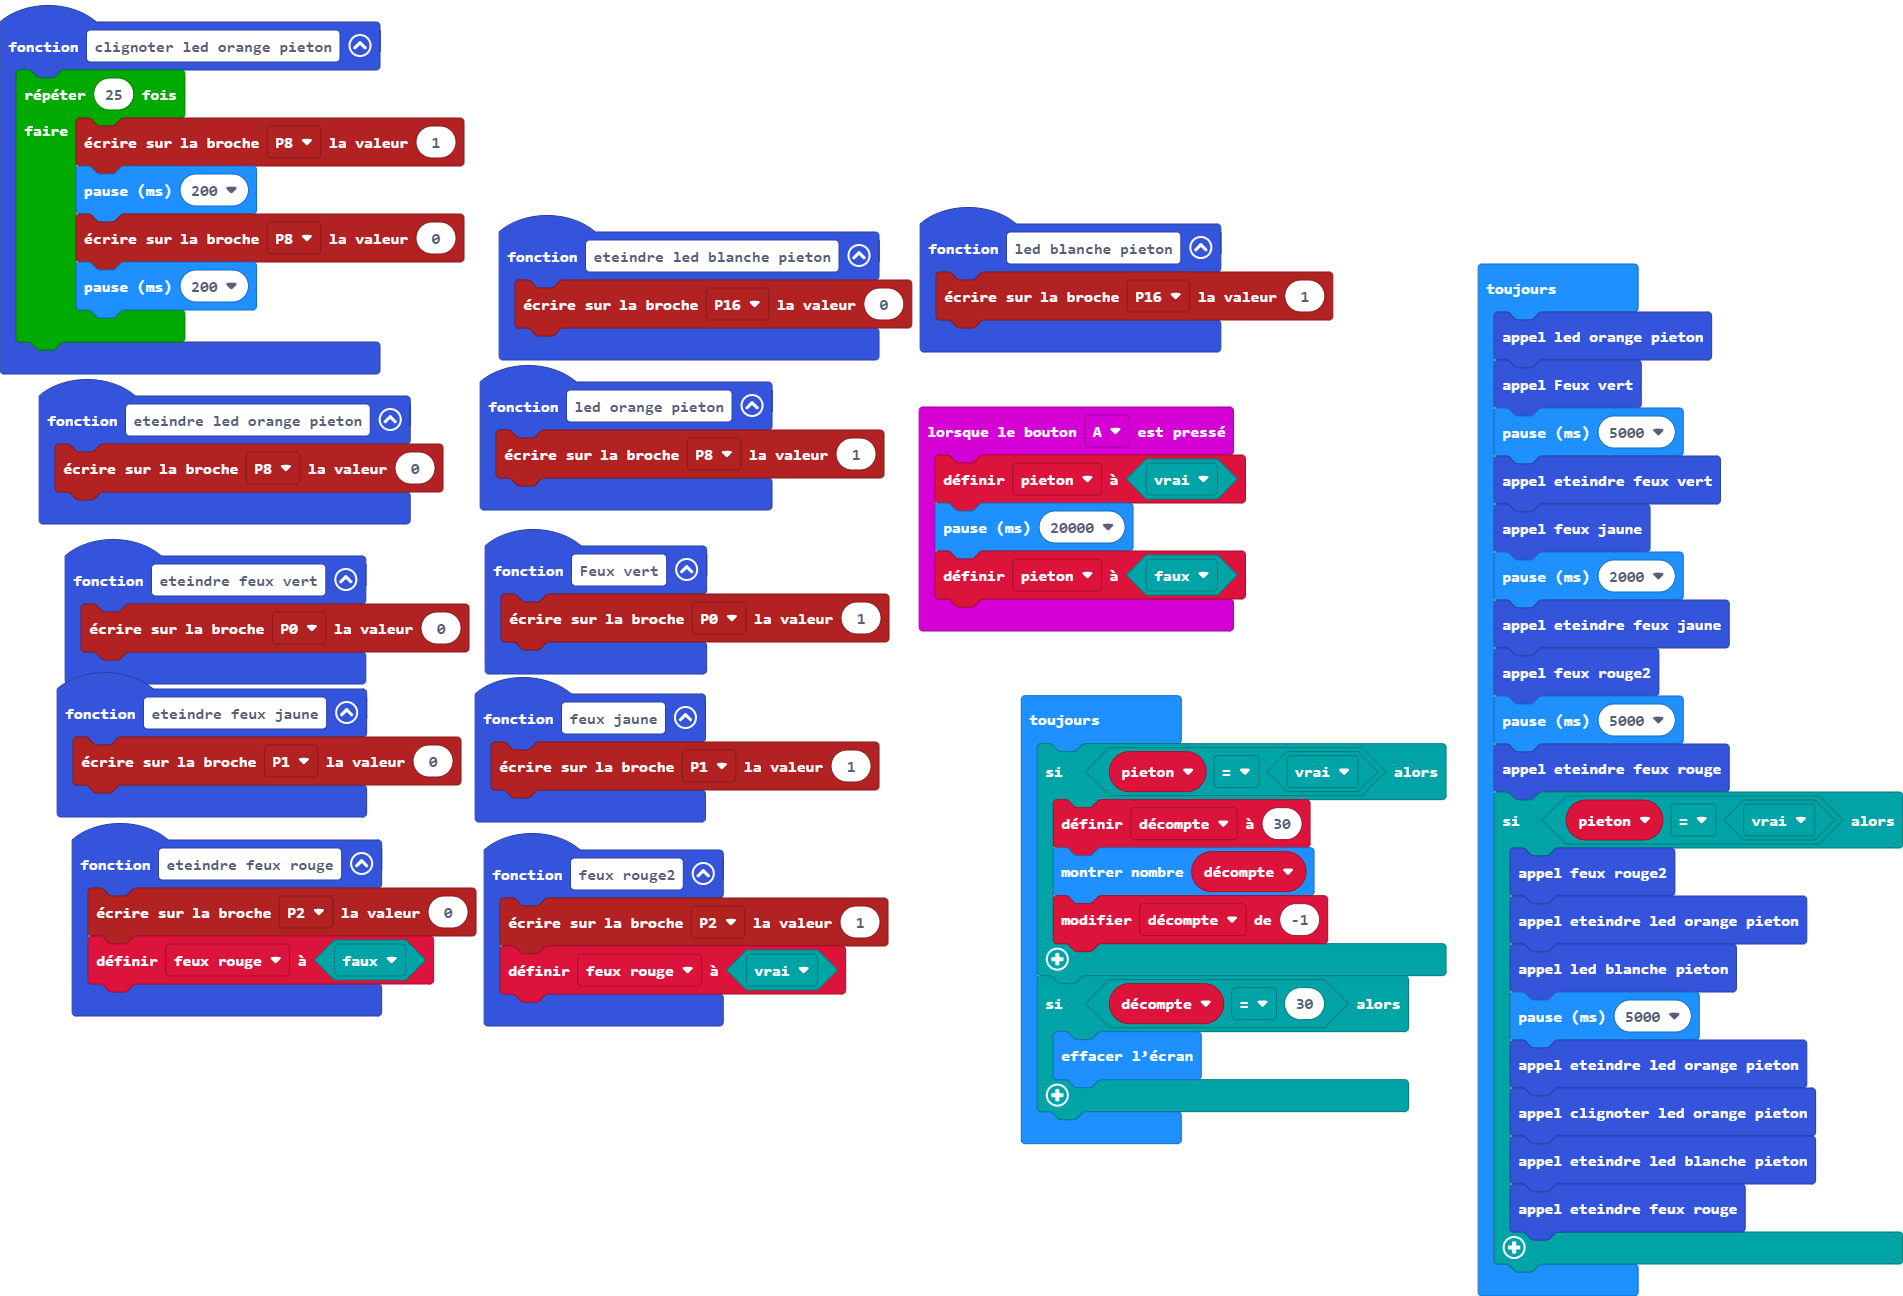
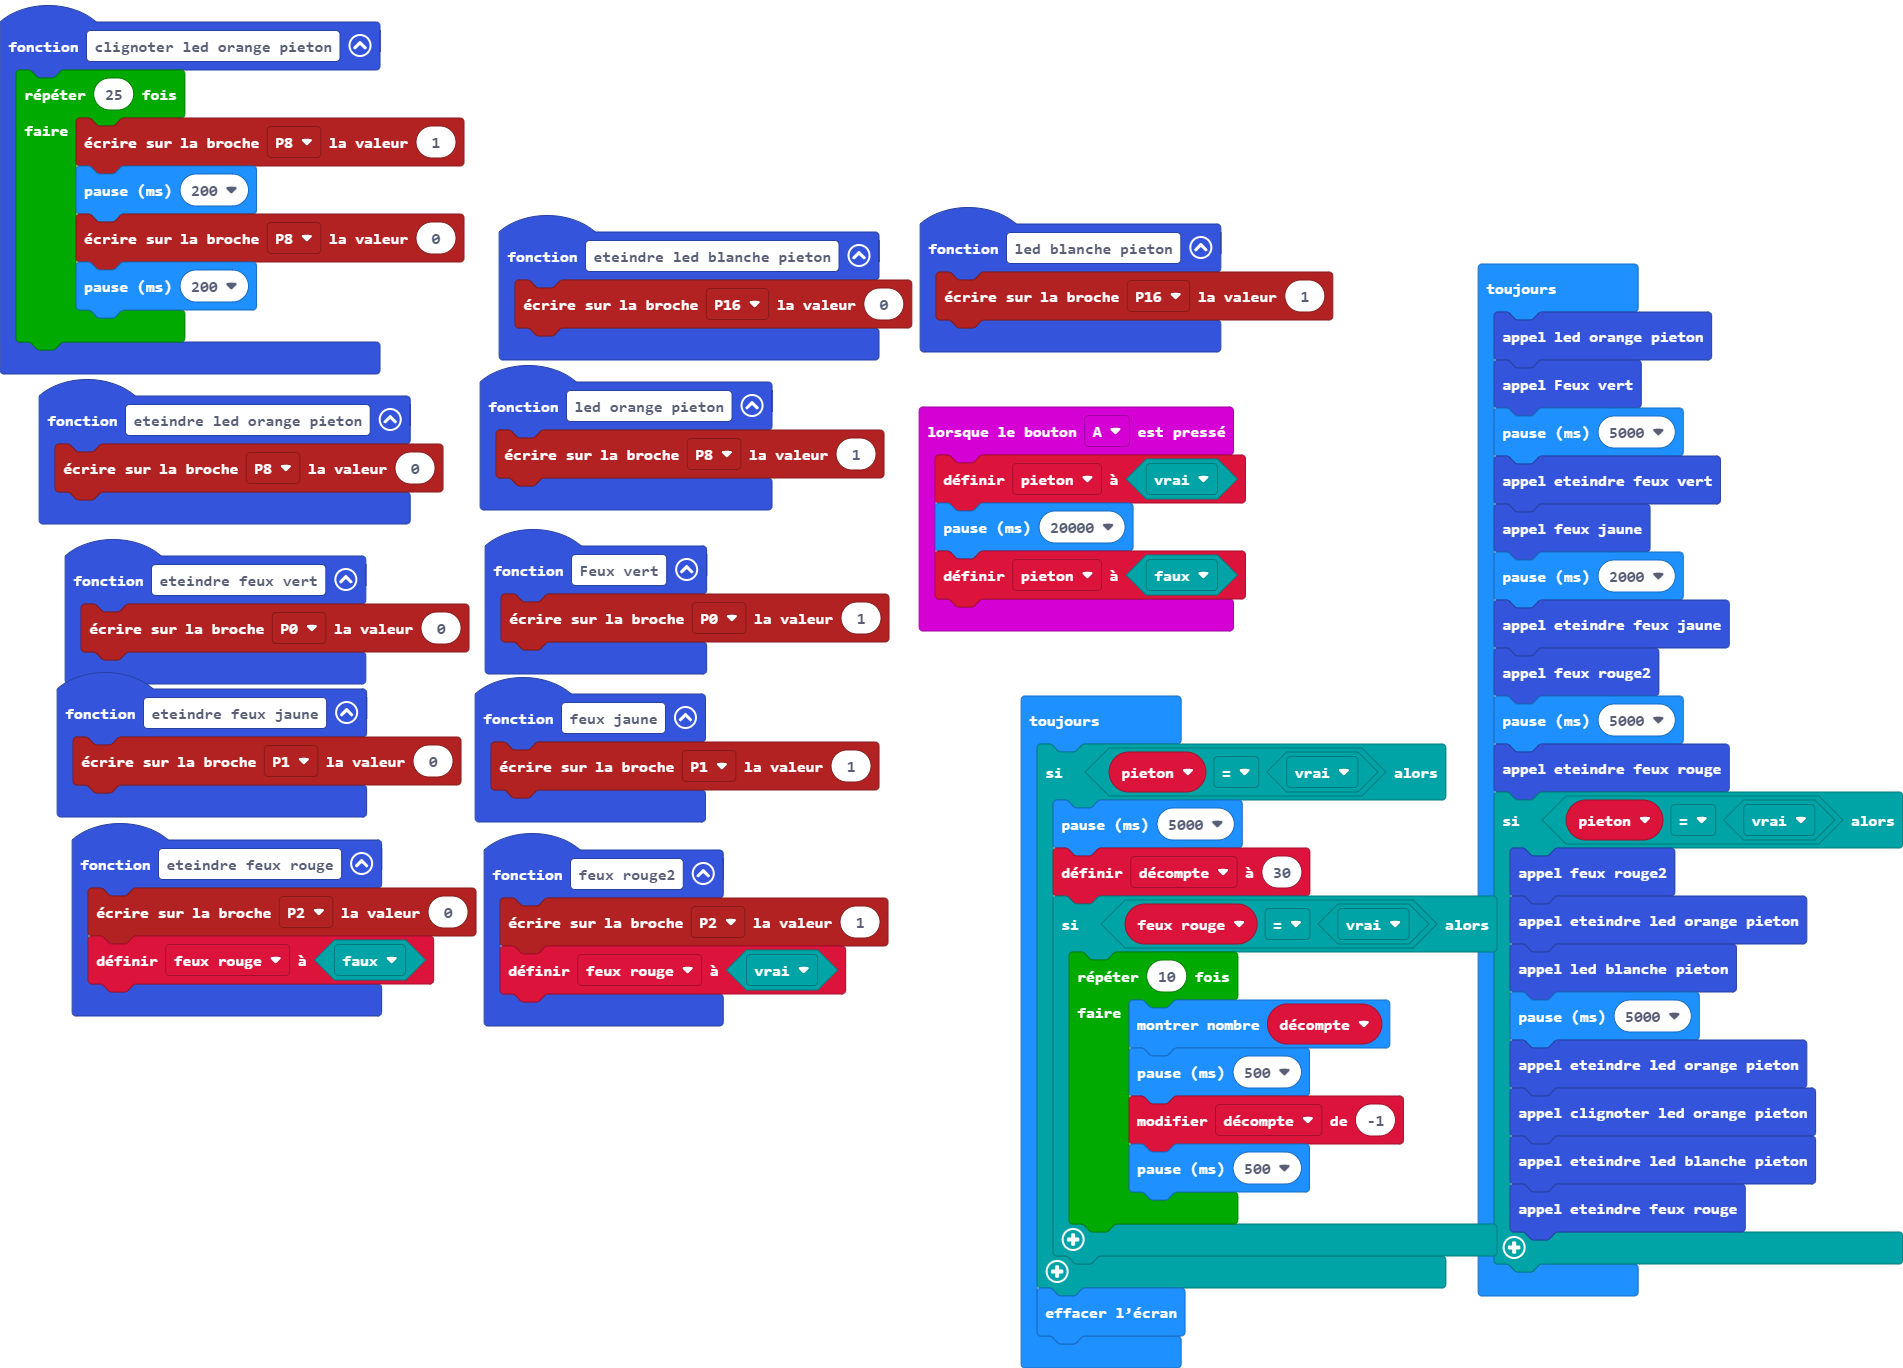
Mise à jour main.blocks, main.ts, main.py

diff --git a/main.ts b/main.ts
@@ -70,11 +70,16 @@ basic.forever(function () {
 })
 basic.forever(function () {
     if (pieton == true) {
+        basic.pause(5000)
         décompte = 30
-        basic.showNumber(décompte)
-        décompte += -1
+        if (feux_rouge == true) {
+            for (let index = 0; index < 10; index++) {
+                basic.showNumber(décompte)
+                basic.pause(500)
+                décompte += -1
+                basic.pause(500)
+            }
+        }
     }
-    if (décompte == 30) {
-        basic.clearScreen()
-    }
+    basic.clearScreen()
 })

diff --git a/main.py b/main.py
@@ -1,30 +1,26 @@
-feux_rouge2 = False
+feux_rouge = False
 pieton = False
+décompte = 0
 def clignoter_led_orange_pieton():
     for index in range(25):
         pins.digital_write_pin(DigitalPin.P8, 1)
         basic.pause(200)
         pins.digital_write_pin(DigitalPin.P8, 0)
         basic.pause(200)
-def feux_rouge():
-    global feux_rouge2
-    pins.digital_write_pin(DigitalPin.P2, 1)
-    feux_rouge2 = True
 def eteindre_feux_jaune():
     pins.digital_write_pin(DigitalPin.P1, 0)
 def eteindre_feux_rouge():
-    global feux_rouge2
+    global feux_rouge
     pins.digital_write_pin(DigitalPin.P2, 0)
-    feux_rouge2 = False
+    feux_rouge = False
 def feux_jaune():
     pins.digital_write_pin(DigitalPin.P1, 1)
 
 def on_button_pressed_a():
     global pieton
-    if feux_rouge2 == True:
-        pieton = True
-        basic.pause(10000)
-        pieton = False
+    pieton = True
+    basic.pause(20000)
+    pieton = False
 input.on_button_pressed(Button.A, on_button_pressed_a)
 
 def Feux_vert():
@@ -35,28 +31,47 @@ def eteindre_feux_vert():
     pins.digital_write_pin(DigitalPin.P0, 0)
 def led_orange_pieton():
     pins.digital_write_pin(DigitalPin.P8, 1)
+def feux_rouge2():
+    global feux_rouge
+    pins.digital_write_pin(DigitalPin.P2, 1)
+    feux_rouge = True
 def led_blanche_pieton():
     pins.digital_write_pin(DigitalPin.P16, 1)
 def eteindre_led_orange_pieton():
     pins.digital_write_pin(DigitalPin.P8, 0)
 
 def on_forever():
-    while pieton == False:
-        Feux_vert()
-        basic.pause(5000)
-        eteindre_feux_vert()
-        feux_jaune()
-        basic.pause(2000)
-        eteindre_feux_jaune()
-        feux_rouge()
-        basic.pause(5000)
-        eteindre_feux_rouge()
-    if pieton == True and feux_rouge2 == True:
-        feux_rouge()
+    led_orange_pieton()
+    Feux_vert()
+    basic.pause(5000)
+    eteindre_feux_vert()
+    feux_jaune()
+    basic.pause(2000)
+    eteindre_feux_jaune()
+    feux_rouge2()
+    basic.pause(5000)
+    eteindre_feux_rouge()
+    if pieton == True:
+        feux_rouge2()
+        eteindre_led_orange_pieton()
         led_blanche_pieton()
         basic.pause(5000)
-        clignoter_led_orange_pieton()
         eteindre_led_orange_pieton()
+        clignoter_led_orange_pieton()
         eteindre_led_blanche_pieton()
         eteindre_feux_rouge()
 basic.forever(on_forever)
+
+def on_forever2():
+    global décompte
+    if pieton == True:
+        basic.pause(5000)
+        décompte = 30
+        if feux_rouge == True:
+            for index2 in range(10):
+                basic.show_number(décompte)
+                basic.pause(500)
+                décompte += -1
+                basic.pause(500)
+    basic.clear_screen()
+basic.forever(on_forever2)
